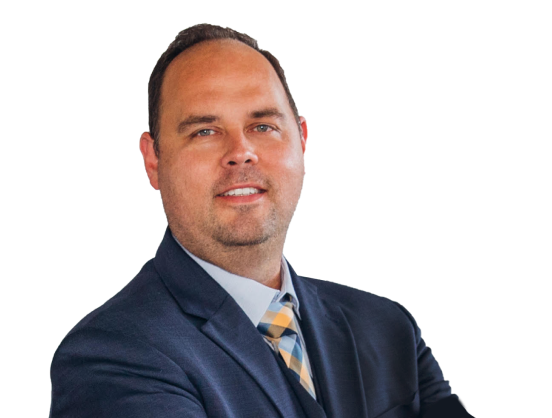
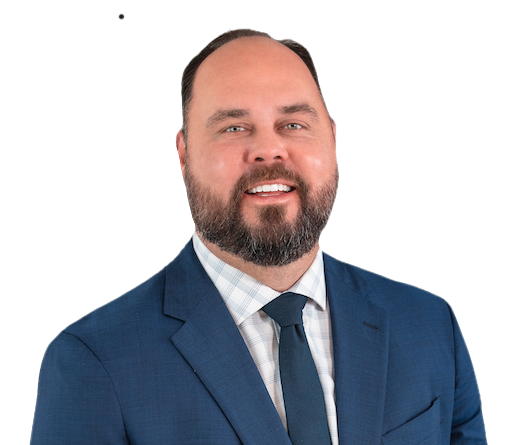
updated attorneys photos

diff --git a/src/pages/attorneys/king/index.js b/src/pages/attorneys/king/index.js
@@ -2,17 +2,19 @@ import Image from "next/image";
 import styled from "styled-components";
 import SecondaryNav from "@/components/UI/attorney-secondary-nav/secondaryNav";
 import AttorneyBanner from "@/components/UI/attorney-banner/attorneyBanner";
-import banner from "../../../../public/images/Dally_Banner.png";
-// import profile from "../../../../public/images/Dally_profile.png";
+import banner from "../../../../public/images/King_banner.png";
+import profile from "../../../../public/images/King_profile.png";
 
 export default function King() {
   return (
     <Container>
       <AttorneyBanner
-        // src={banner}
+        src={banner}
         alt="J. Steven King banner image"
         name={"J. STEVEN KING, Of Counsel"}
         email={"STEVEN@TEXFAMILYLAWYER.COM"}
+        maxWidth={"472px"}
+        top={"11px"}
         priority={true}
       />
       <SecondaryNav />
@@ -283,7 +285,7 @@ export default function King() {
           </p>
         </Content>
         <Image
-          // src={profile}
+          src={profile}
           alt="J. Steven King profile picture"
           className="item"
           quality={100}
@@ -291,7 +293,7 @@ export default function King() {
             height: "auto",
             maxHeight: "472px",
             width: "100%",
-            maxWidth: "418px",
+            maxWidth: "470px",
           }}
           priority={true}
         />

diff --git a/src/components/UI/attorney-banner/attorneyBanner.js b/src/components/UI/attorney-banner/attorneyBanner.js
@@ -3,7 +3,12 @@ import styled from "styled-components";
 
 export default function attorneyBanner(props) {
   return (
-    <Container top={props.top} mobileTop={props.mobileTop}>
+    <Container
+      maxWidth={props.maxWidth}
+      top={props.top}
+      mobileTop={props.mobileTop}
+      right={props.right}
+    >
       <Title>
         <p className="header-white-large">{props.name}</p>
         <p className="practice-area">ATTORNEY & COUNSELOR AT LAW</p>
@@ -29,10 +34,10 @@ const Container = styled.div`
   background-color: #272d47;
   .attorney-banner-img {
     width: 100%;
-    max-width: 552px;
+    max-width: ${(props) => (props.maxWidth ? props.maxWidth : "452px")};
     height: auto;
     position: absolute;
-    right: 6rem;
+    right: 8rem;
     z-index: 2;
     top: ${(props) => (props.top ? props.top : "-18px")};
   }
@@ -61,7 +66,13 @@ const Title = styled.div`
     letter-spacing: 0.15em;
     margin-top: 1rem;
   }
-
+  @media (max-width: 1510px) {
+    .header-white-large {
+      font-size: 32px;
+      letter-spacing: 0.2em;
+      padding-bottom: 0.2rem;
+    }
+  }
   @media (max-width: 1300px) {
     top: 0;
     left: 2rem;

diff --git a/src/pages/attorneys/vargas/index.js b/src/pages/attorneys/vargas/index.js
@@ -3,7 +3,7 @@ import styled from "styled-components";
 import AttorneyBanner from "@/components/UI/attorney-banner/attorneyBanner";
 import banner from "../../../../public/images/sara-banner.png";
 import SecondaryNav from "@/components/UI/attorney-secondary-nav/secondaryNav";
-import profile from "../../../../public/images/sara.jpg";
+import profile from "../../../../public/images/Sara.jpeg";
 export default function Vargas() {
   return (
     <Container>
@@ -12,8 +12,9 @@ export default function Vargas() {
         alt="Sara banner image"
         name={"SARA VARGAS"}
         email={"SARA@TEXFAMILYLAWYER.COM"}
-        top={"-28px"}
+        top={"15px"}
         mobileTop={"15px"}
+        maxWidth={"440px"}
         priority={true}
       />
       <SecondaryNav />
@@ -100,7 +101,7 @@ export default function Vargas() {
             height: "auto",
             maxHeight: "472px",
             width: "100%",
-            maxWidth: "418px",
+            maxWidth: "460px",
           }}
           priority={true}
         />

diff --git a/src/pages/attorneys/webb/index.js b/src/pages/attorneys/webb/index.js
@@ -12,6 +12,7 @@ export default function Webb() {
         src={banner}
         alt="Webb banner image"
         name={"DANIEL P. WEBB"}
+        top={"6px"}
         email={"DANIEL@TEXFAMILYLAWYER.COM"}
         priority={true}
       />
@@ -202,7 +203,7 @@ export default function Webb() {
             height: "auto",
             maxHeight: "472px",
             width: "100%",
-            maxWidth: "418px",
+            maxWidth: "440px",
           }}
           priority={true}
         />

diff --git a/src/pages/attorneys/brewington/index.js b/src/pages/attorneys/brewington/index.js
@@ -11,7 +11,8 @@ export default function Brewington() {
         alt="Brewington banner image"
         name={"MAX BREWINGTON"}
         email={"MAX@TEXFAMILYLAWYER.COM"}
-        top={"-9px"}
+        maxWidth={"512px"}
+        top={"21px"}
         mobileTop={"15px"}
         priority={true}
       />

diff --git a/src/pages/attorneys/dally/index.js b/src/pages/attorneys/dally/index.js
@@ -11,6 +11,8 @@ export default function Dally() {
       <AttorneyBanner
         src={banner}
         alt="mally banner image"
+        maxWidth={"512px"}
+        top={"12px"}
         name={"LORI E. DALLY"}
         email={"LORI@TEXFAMILYLAWYER.COM"}
         priority={true}
